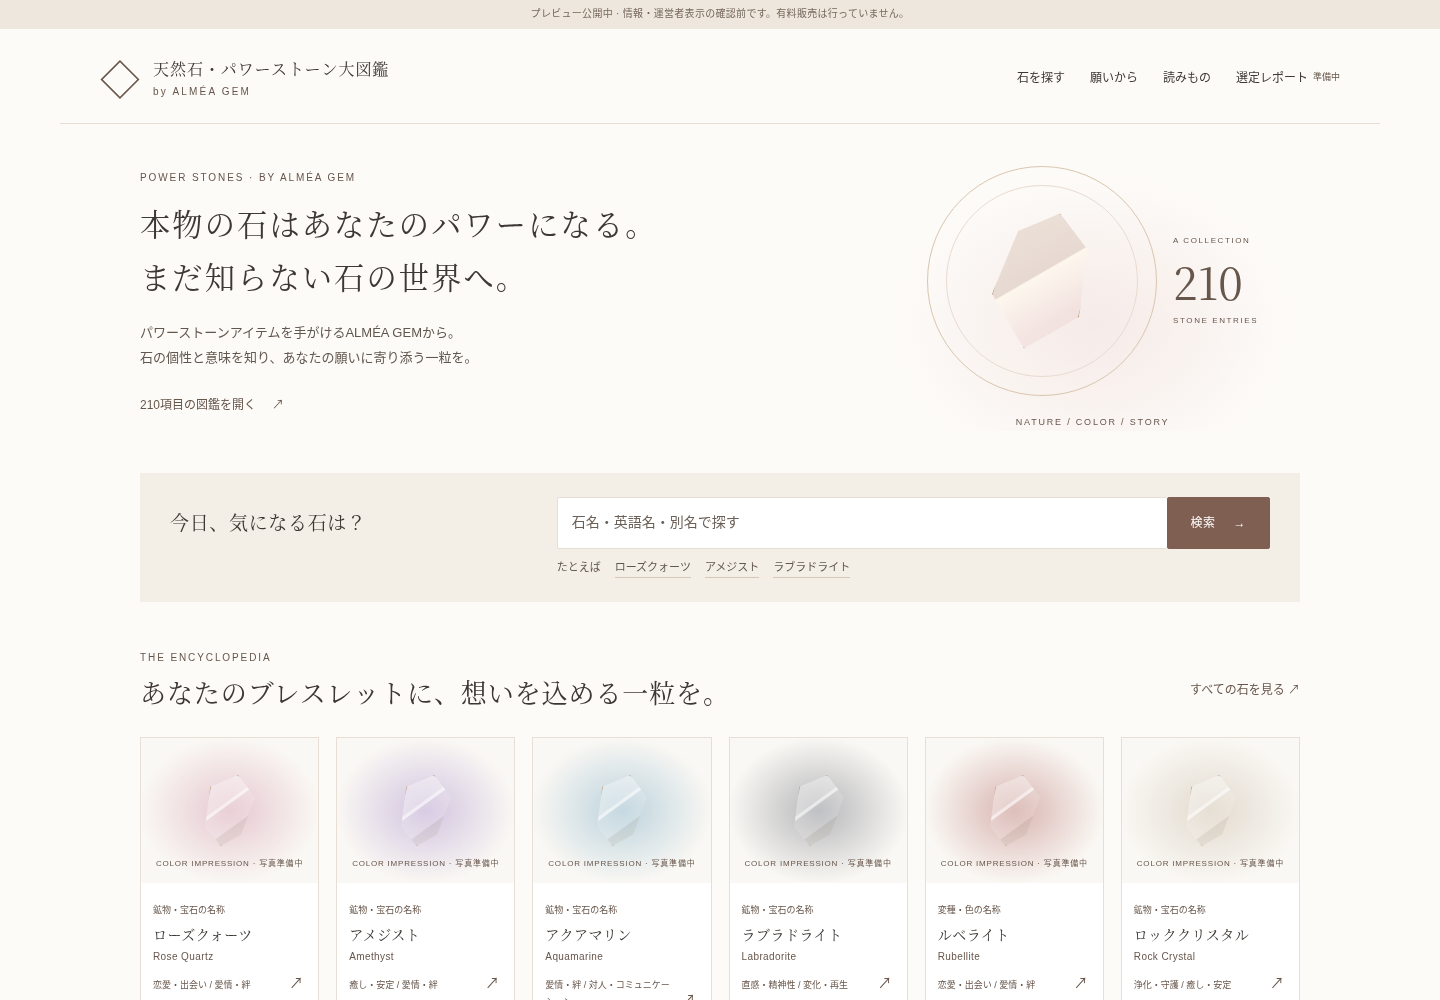
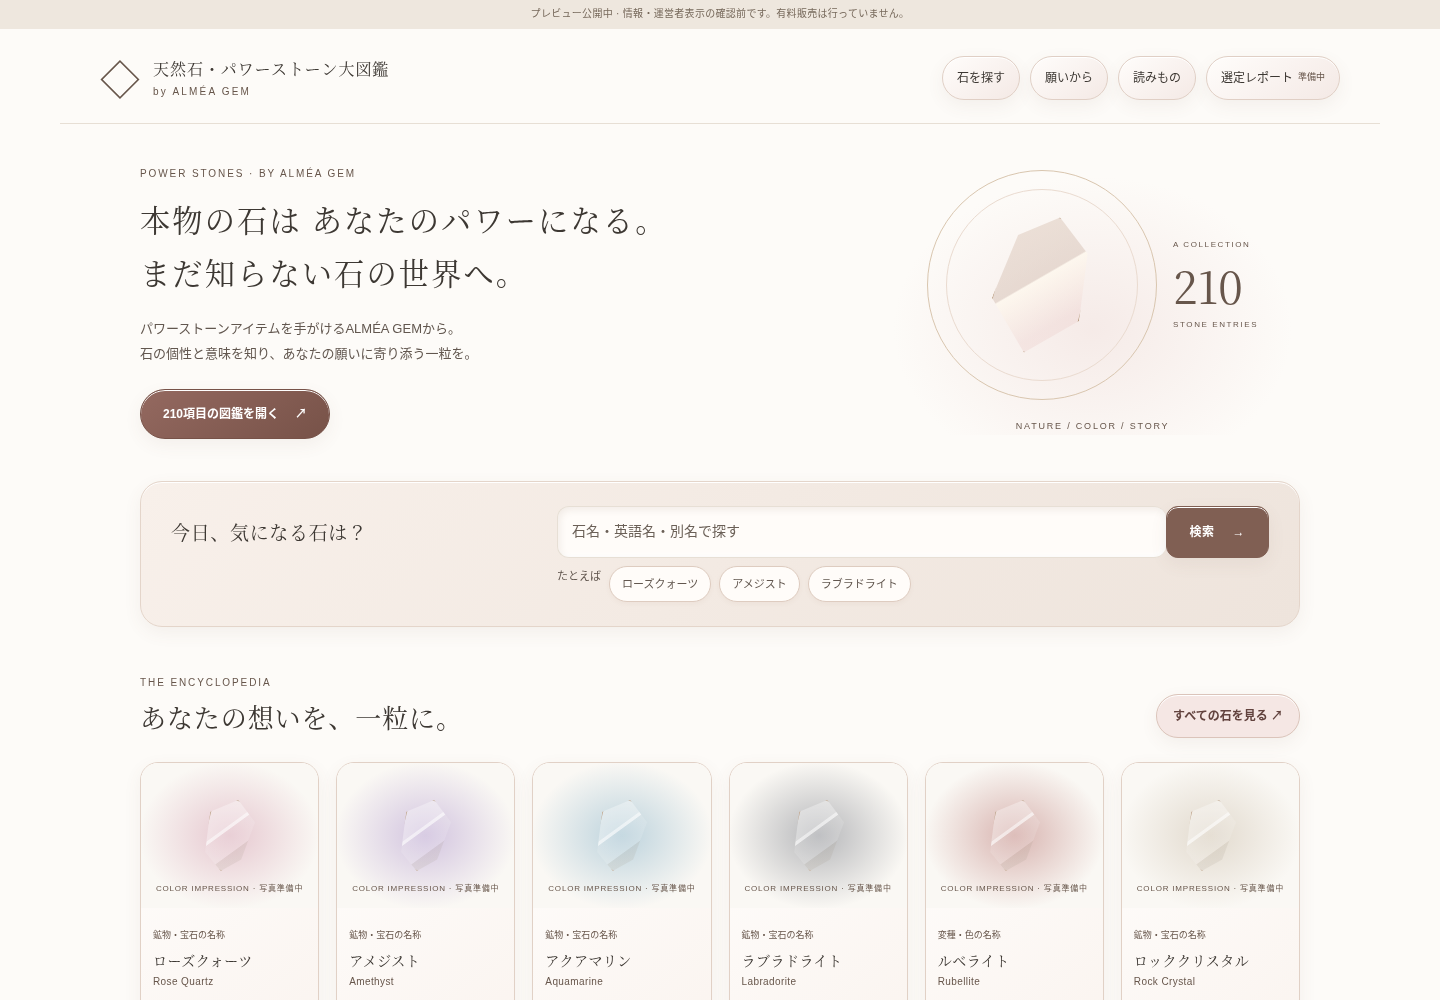
style: add tactile navigation and balanced mobile typography

diff --git a/src/tactile.css b/src/tactile.css
@@ -1,0 +1,373 @@
+/* Tactile surfaces distinguish navigation from editorial text. */
+:root {
+  --raised: 0 6px 18px #78534512, inset 0 1px 0 #fff;
+  --pressed: inset 2px 3px 7px #78534518, inset -2px -2px 5px #fff;
+}
+.site-header nav a {
+  padding: 8px 14px;
+  border: 1px solid #e0cfc5;
+  border-radius: 999px;
+  background: linear-gradient(145deg, #fffdfb, #f4e9e5);
+  box-shadow: var(--raised);
+  justify-content: center;
+}
+.site-header nav {
+  gap: 10px;
+}
+.text-link {
+  padding: 9px 16px;
+  border: 1px solid #dbc4ba;
+  border-radius: 999px;
+  background: #f5e7e4;
+  box-shadow: var(--raised);
+  color: #62433e;
+  font-weight: 600;
+  min-height: 44px;
+}
+.hero-copy > .text-link {
+  margin-top: 22px;
+  background: linear-gradient(145deg, #946960, #775248);
+  color: white;
+  border-color: #775248;
+  padding: 13px 22px;
+}
+.button {
+  border-radius: 12px;
+  box-shadow: var(--raised);
+  font-weight: 600;
+}
+.button.outline {
+  background: #fffaf7;
+}
+.home-search {
+  border-radius: 22px;
+  border: 1px solid #e4d5ca;
+  background: linear-gradient(135deg, #f8f0ea, #eee4dc);
+  box-shadow: var(--raised);
+}
+.home-search input,
+.filter-panel input,
+.filter-panel select {
+  border-radius: 12px;
+  box-shadow: var(--pressed);
+  background: #fffcf9;
+}
+.search-suggestions {
+  gap: 8px;
+}
+.search-suggestions a {
+  border: 1px solid #deccc0;
+  border-radius: 999px;
+  background: #fffcf9;
+  padding: 7px 12px;
+  min-height: 36px;
+  display: inline-flex;
+  align-items: center;
+  box-shadow: 0 2px 5px #7853450c;
+  text-decoration: none;
+}
+.stone-card,
+.article-card,
+.wish-link {
+  border: 1px solid #e1d1c6;
+  border-radius: 18px;
+  box-shadow: var(--raised);
+  overflow: hidden;
+  background: linear-gradient(145deg, #fffefd, #faf3ee);
+}
+.stone-card {
+  transition:
+    transform 0.18s,
+    box-shadow 0.18s;
+}
+.stone-card > a {
+  border-radius: inherit;
+}
+.card-copy {
+  padding-bottom: 58px;
+}
+.card-theme {
+  padding-right: 0;
+}
+.card-arrow {
+  right: 12px;
+  bottom: 12px;
+  border-radius: 999px;
+  padding: 5px 10px;
+  background: #f2e1de;
+  border: 1px solid #dfc4bd;
+  font: 11px/1.6 var(--sans);
+  color: #63453e;
+  box-shadow: inset 0 1px 0 #fff;
+}
+.wish-grid {
+  gap: 14px;
+}
+.wish-link {
+  padding: 20px;
+  gap: 16px;
+}
+.wish-number {
+  flex: 0 0 38px;
+  font-size: 26px;
+  color: #836054;
+  text-shadow:
+    0 1px #fff,
+    0 -1px #cdb6a680;
+}
+.wish-link > div {
+  min-width: 0;
+  flex: 1;
+}
+.wish-link > span:last-child {
+  display: inline-flex;
+  align-items: center;
+  justify-content: center;
+  flex: 0 0 42px;
+  height: 42px;
+  border-radius: 50%;
+  background: #f0dcd7;
+  box-shadow:
+    inset 0 1px 1px #fff,
+    0 3px 6px #78534516;
+}
+.article-card {
+  display: block;
+  padding: 16px;
+}
+.article-cover {
+  border-radius: 12px;
+  box-shadow: var(--pressed);
+}
+.open-label {
+  display: inline-flex;
+  align-items: center;
+  gap: 14px;
+  border: 1px solid #dec4ba;
+  border-radius: 999px;
+  background: #f3e3de;
+  padding: 8px 15px;
+  margin-top: 16px;
+  font-size: 12px;
+  font-weight: 600;
+  color: #63453e;
+}
+.report-teaser {
+  border: 1px solid #dec5bd;
+  border-radius: 24px;
+  box-shadow: var(--raised);
+  background: linear-gradient(135deg, #f7ebe8, #edddd7);
+}
+.hero-mobile-break {
+  display: none;
+}
+.section-heading > div {
+  min-width: 0;
+}
+.section-heading h2 {
+  text-wrap: balance;
+}
+.site-footer nav a {
+  text-decoration: underline;
+  text-underline-offset: 5px;
+}
+@media (hover: hover) {
+  .stone-card:hover,
+  .article-card:hover,
+  .wish-link:hover {
+    transform: translateY(-3px);
+    box-shadow:
+      0 10px 24px #78534520,
+      inset 0 1px 0 white;
+    border-color: #c49688;
+  }
+  .text-link:hover,
+  .site-header nav a:hover {
+    background: #ecd4ce;
+    color: #573b33;
+  }
+  .hero-copy > .text-link:hover {
+    background: #63453e;
+    color: white;
+  }
+}
+.text-link:active,
+.button:active,
+.site-header nav a:active,
+.wish-link:active,
+.stone-card:active,
+.article-card:active {
+  transform: translateY(1px);
+  box-shadow: var(--pressed);
+}
+@media (max-width: 640px) {
+  .site-header {
+    padding-bottom: 16px;
+  }
+  .site-header nav {
+    display: grid;
+    grid-template-columns: repeat(2, minmax(0, 1fr));
+    gap: 9px;
+    padding-top: 14px;
+  }
+  .site-header nav a {
+    font-size: 12px;
+    padding: 7px 10px;
+    min-height: 44px;
+  }
+  .site-header .nav-diagnosis {
+    max-width: none;
+    flex-wrap: nowrap;
+    gap: 5px !important;
+  }
+  .site-header .nav-diagnosis span {
+    width: auto;
+    font-size: 9px;
+  }
+  .home-hero {
+    padding-block: 26px;
+  }
+  .hero-copy h1 {
+    font-size: clamp(23px, 6.1vw, 28px);
+    line-height: 1.65;
+    letter-spacing: 0.015em;
+  }
+  .hero-mobile-break {
+    display: block;
+  }
+  .hero-line {
+    text-wrap: initial;
+  }
+  .hero-line + .hero-line {
+    margin-top: 9px;
+    font-size: 0.86em;
+  }
+  .hero-copy > p:not(.eyebrow) {
+    margin-top: 18px;
+    font-size: 13px;
+    line-height: 1.9;
+  }
+  .hero-art {
+    display: none;
+  }
+  .hero-copy > .text-link {
+    font-size: 13px;
+    margin-top: 18px;
+    min-height: 48px;
+  }
+  .section-heading {
+    display: flex;
+    flex-direction: column;
+    align-items: flex-start;
+    gap: 14px;
+    margin-bottom: 20px;
+  }
+  .section-heading h2 {
+    font-size: 22px;
+    line-height: 1.6;
+    letter-spacing: 0.02em;
+    text-wrap: pretty;
+  }
+  .section-heading > .text-link {
+    font-size: 12px;
+    white-space: normal;
+  }
+  .search-suggestions {
+    font-size: 11px;
+    gap: 8px;
+  }
+  .search-suggestions > span {
+    width: 100%;
+  }
+  .search-suggestions a {
+    min-height: 44px;
+    padding: 7px 11px;
+  }
+  .home-search {
+    padding: 20px 16px;
+  }
+  .home-search h2 {
+    font-size: 21px;
+  }
+  .home-search input {
+    font-size: 16px;
+  }
+  .home-search .button {
+    min-height: 48px;
+  }
+  .card-copy,
+  .home-hero + .home-search + .section .card-copy {
+    padding: 13px 12px 54px;
+  }
+  .card-copy h3 {
+    font-size: 15px;
+    letter-spacing: 0;
+  }
+  .card-arrow {
+    font-size: 11px;
+  }
+  .wish-grid {
+    gap: 12px;
+    margin-top: 18px;
+  }
+  .wish-link {
+    padding: 18px 14px;
+    gap: 10px;
+  }
+  .wish-link h2,
+  .wish-link h3 {
+    font-size: 17px;
+    line-height: 1.6;
+    letter-spacing: 0;
+  }
+  .wish-link p {
+    font-size: 12px;
+    margin-top: 5px;
+    line-height: 1.8;
+  }
+  .wish-number {
+    flex-basis: 28px;
+    font-size: 23px;
+  }
+  .wish-link > span:last-child {
+    flex-basis: 34px;
+    height: 34px;
+  }
+  .article-grid {
+    gap: 20px;
+  }
+  .article-card {
+    padding: 15px;
+  }
+  .article-card h2,
+  .article-card h3 {
+    font-size: 20px;
+    line-height: 1.65;
+    text-wrap: pretty;
+  }
+  .article-card > p:not(.eyebrow) {
+    font-size: 13px;
+    line-height: 1.9;
+  }
+  .report-teaser {
+    padding: 24px 20px;
+  }
+  .report-teaser h2 {
+    font-size: 25px;
+    line-height: 1.6;
+  }
+  .report-teaser p:not(.eyebrow) {
+    font-size: 13px;
+    line-height: 1.9;
+  }
+}
+@media (prefers-reduced-motion: reduce) {
+  .stone-card,
+  .wish-link,
+  .article-card,
+  .text-link,
+  .button {
+    transition: none;
+    transform: none !important;
+  }
+}

diff --git a/tests/e2e/public.spec.ts b/tests/e2e/public.spec.ts
@@ -9,7 +9,7 @@ test('editorial home has immediate content, separate navigation and no mobile ov
 }) => {
   await page.goto('/');
   await expect(page.getByRole('heading', { level: 1 })).toContainText(
-    '本物の石はあなたのパワーになる。',
+    /本物の石は\s*あなたのパワーになる。/,
   );
   await expect(page.locator('.stone-card')).toHaveCount(6);
   await expect(
